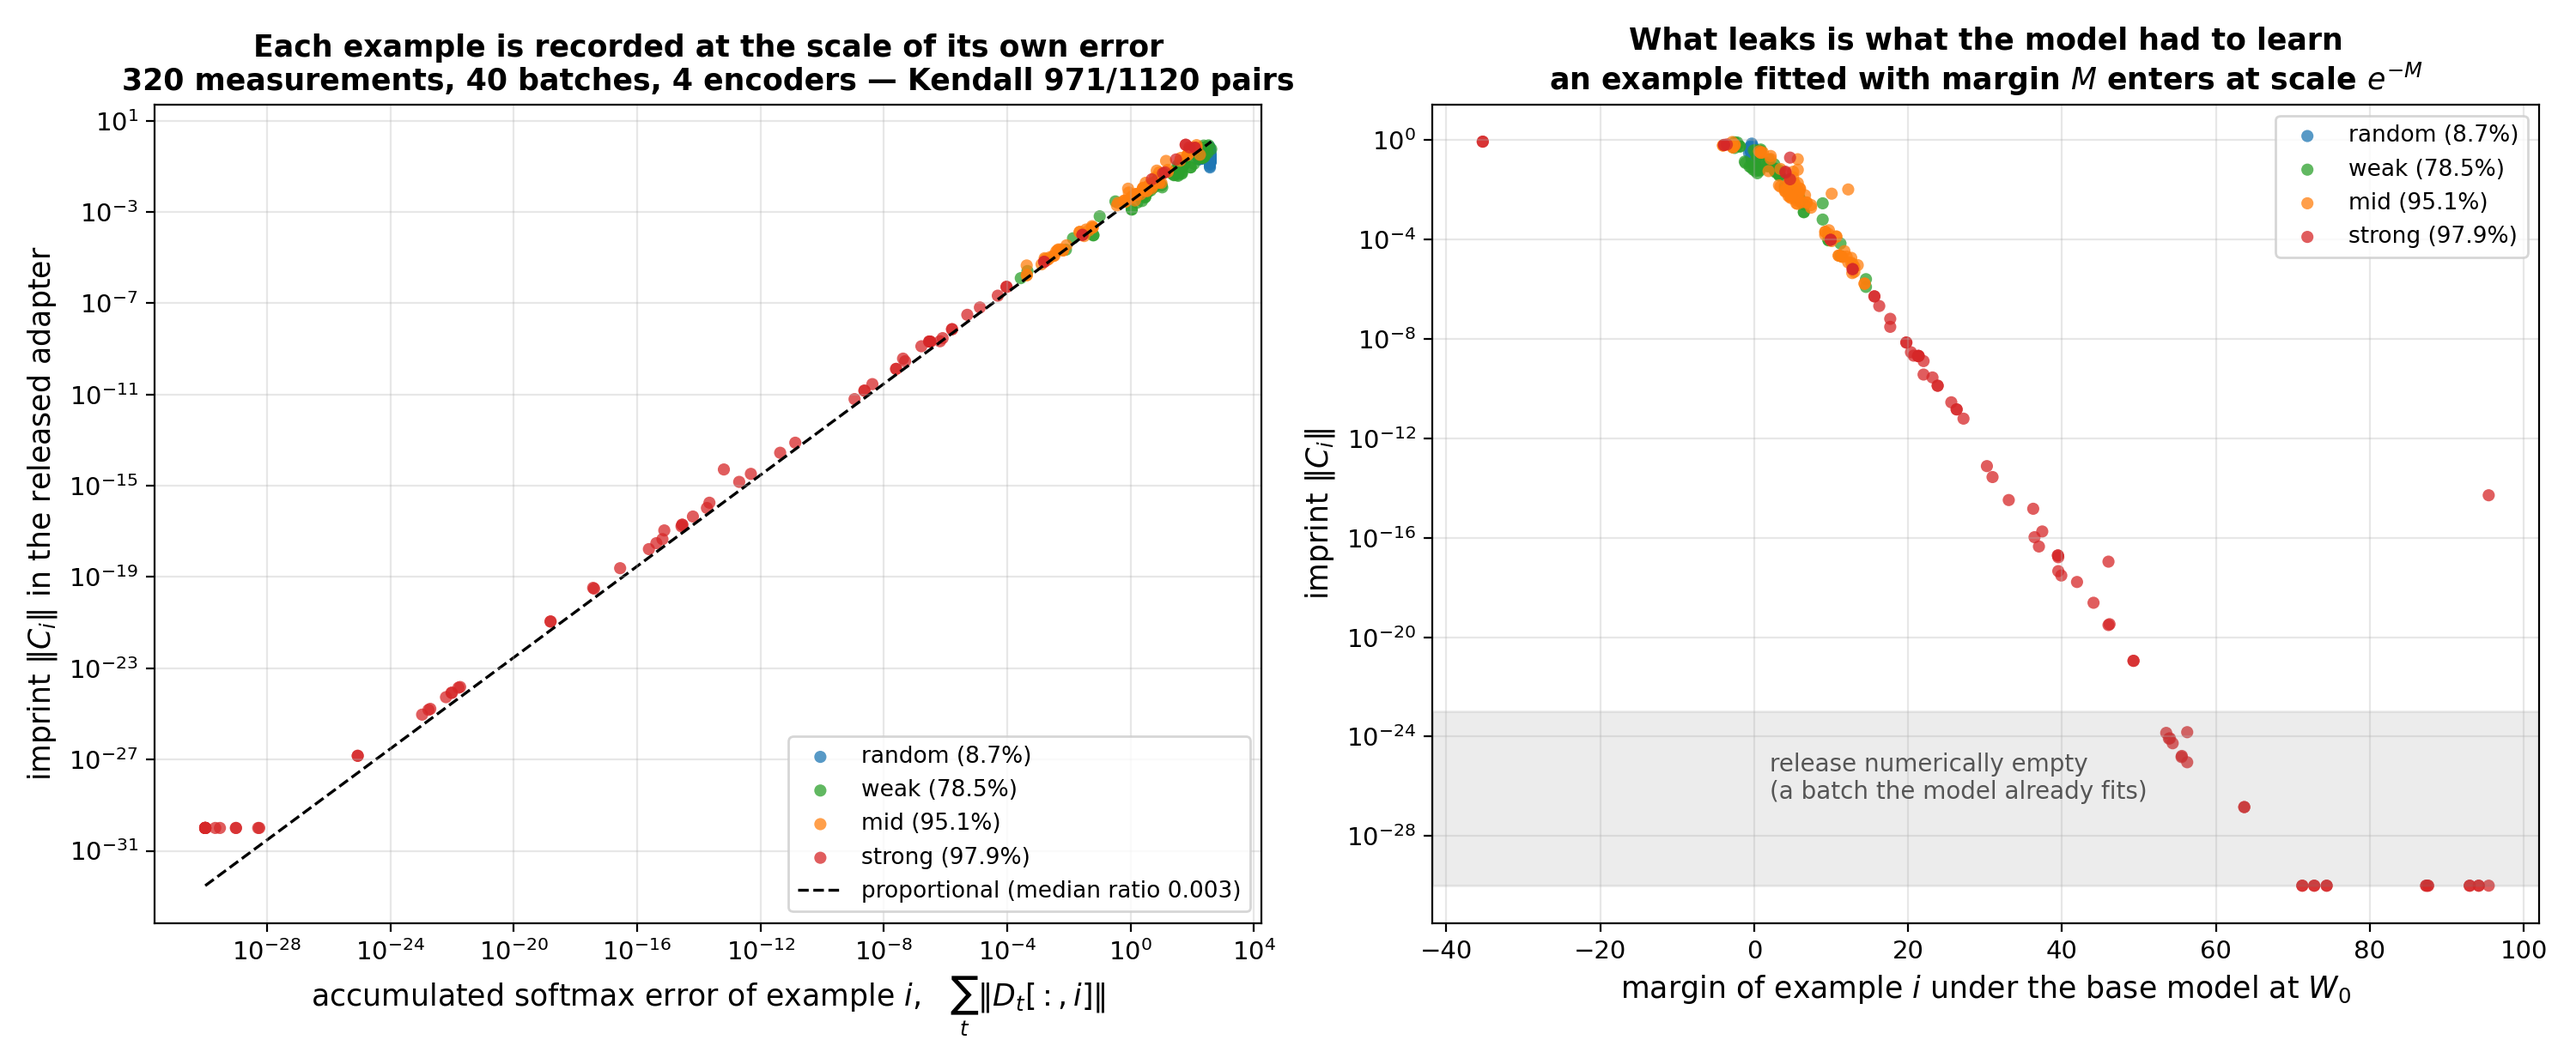
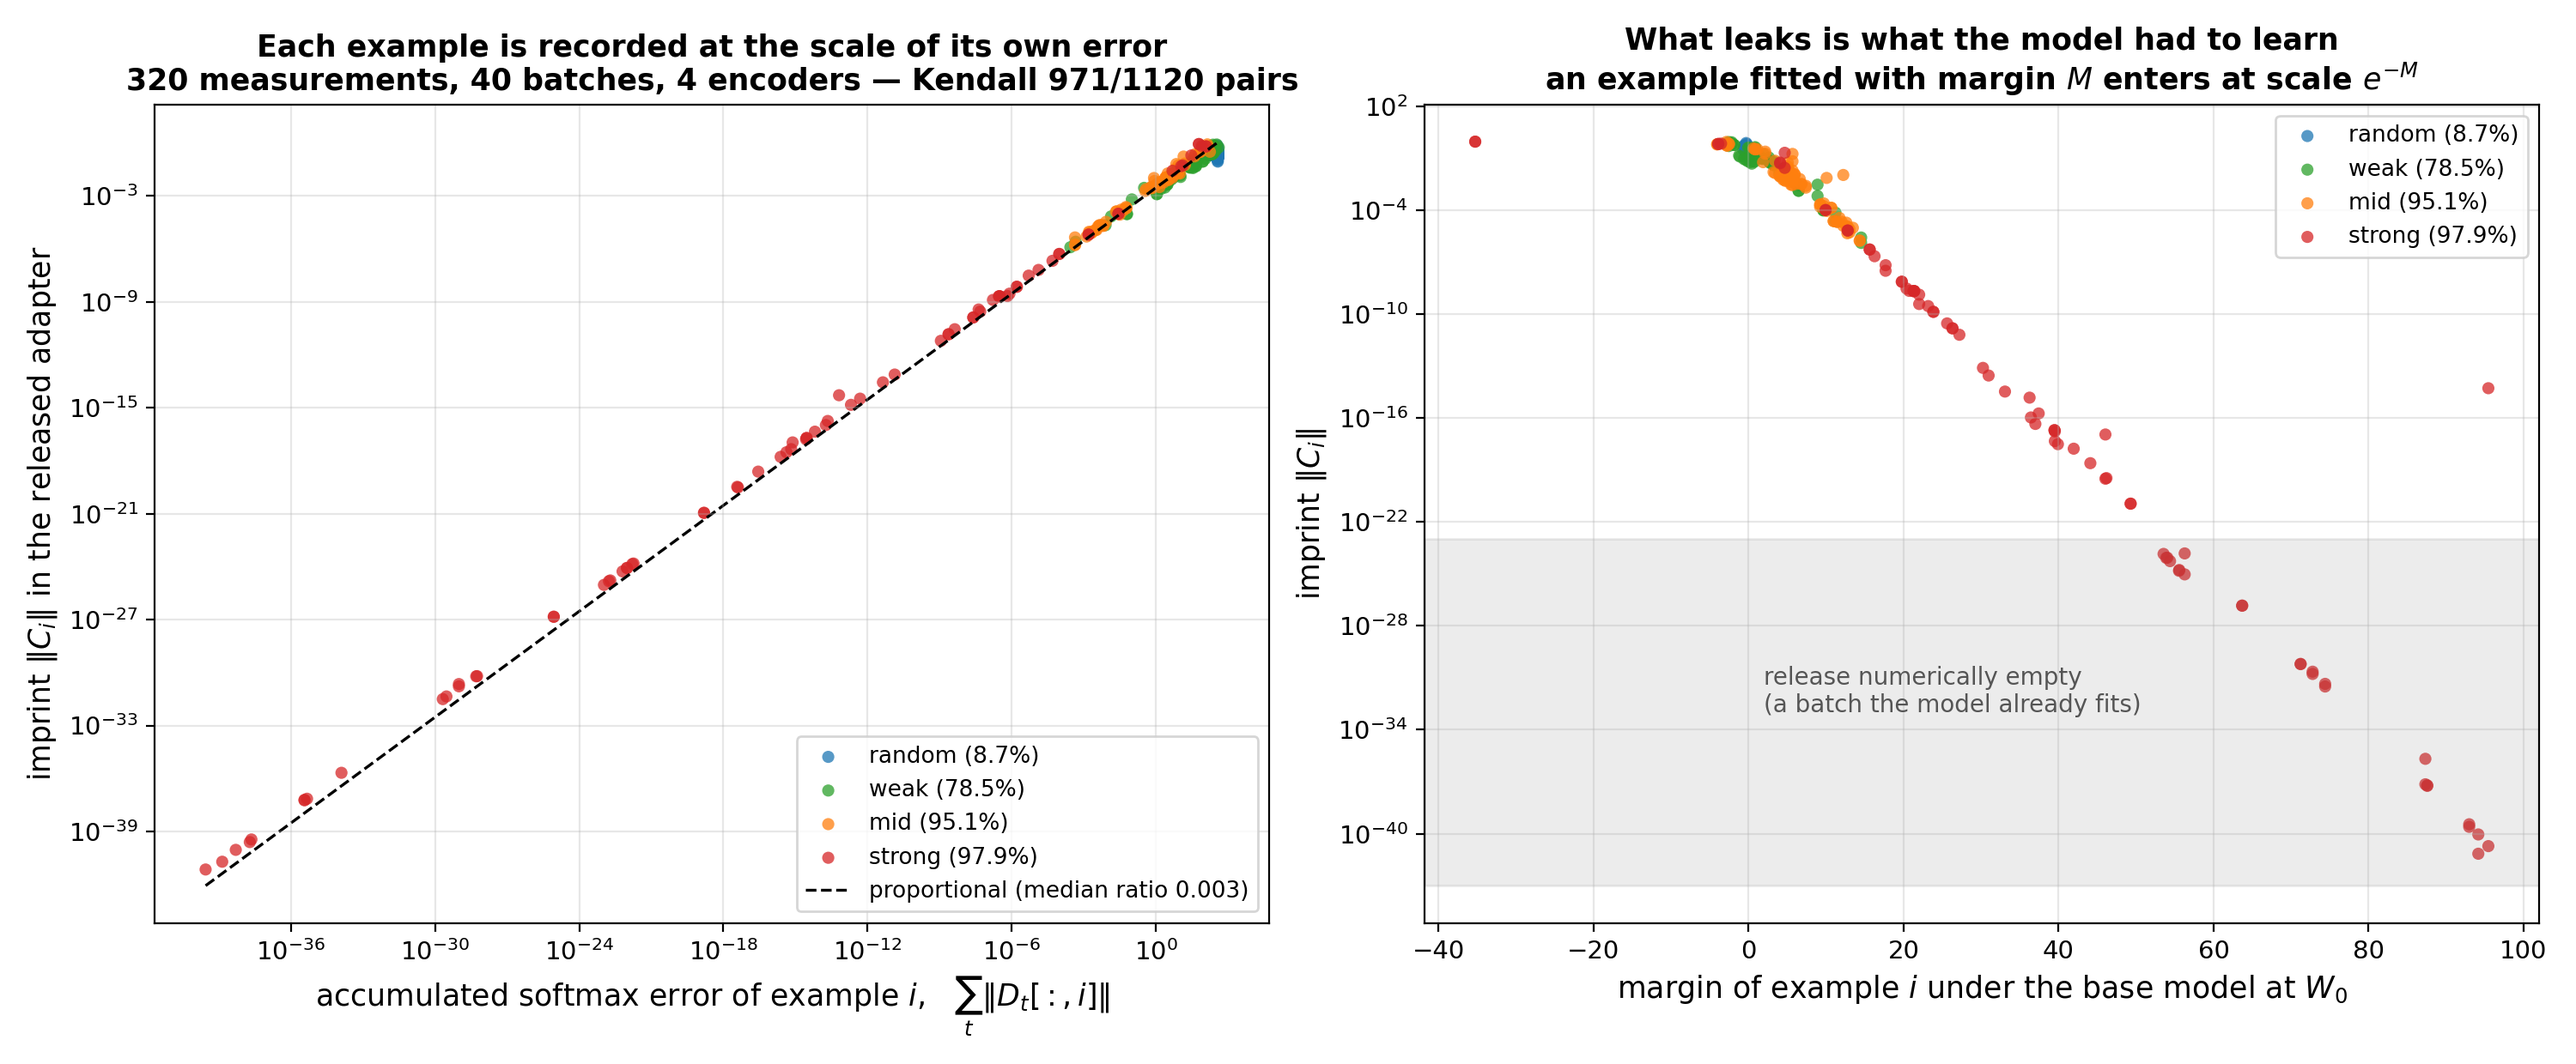
Rev 10 delta: regenerate the imprint figure without the 1e-30 clip (real data reaches 7e-42), so the axes show the full measured range and the caption no longer needs a clipping note

diff --git a/scripts/rev10_figs/fig_imprint.py b/scripts/rev10_figs/fig_imprint.py
@@ -9,7 +9,7 @@ import numpy as np
 rows = [json.loads(l) for l in open("results/exact_inversion/step58_imprint_631392.jsonl") if l.strip()]
 COL = {"random": "#1f77b4", "weak": "#2ca02c", "mid": "#ff7f0e", "strong": "#d62728"}
 ACC = {"random": "8.7%", "weak": "78.5%", "mid": "95.1%", "strong": "97.9%"}
-FLOOR = 1e-30
+FLOOR = 1e-43   # below the smallest measured value, so nothing is clipped
 fig, (ax1, ax2) = plt.subplots(1, 2, figsize=(15, 6.2), dpi=200)
 
 for e in ("random", "weak", "mid", "strong"):
@@ -34,7 +34,7 @@ ax1.grid(alpha=0.3); ax1.legend(fontsize=9.5, loc="lower right"); ax1.tick_param
 
 ax2.set_yscale("log")
 ax2.axhspan(FLOOR, 1e-23, color="gray", alpha=0.15)
-ax2.text(2, 3e-27, "release numerically empty\n(a batch the model already fits)", fontsize=10, color="#555")
+ax2.text(2, 1e-33, "release numerically empty\n(a batch the model already fits)", fontsize=10, color="#555")
 ax2.set_xlabel(r"margin of example $i$ under the base model at $W_0$", fontsize=12.5)
 ax2.set_ylabel(r"imprint $\|C_i\|$", fontsize=12.5)
 ax2.set_title("What leaks is what the model had to learn\n"

diff --git a/notes/exact_channel_rev10.tex b/notes/exact_channel_rev10.tex
@@ -771,8 +771,9 @@ $8.7\times10^{-3}$. \emph{Right:} the same imprints against the base model's
 margin on that example. The margin governs only through the error it
 implies, so this relation is a tendency and not a law — the accumulated
 error over $T$ steps is not exactly $\mathrm e^{-M}$ at $W_0$ — but it shows
-where the release goes numerically empty. Points at $10^{-30}$ are at the
-floor of the measurement.}\label{fig:imprint}
+where the release goes numerically empty. No point is clipped: the axes
+reach the smallest measured values, and the recovery of $C_i$ from the
+release is gated at $\|\sum_iC_i-B_T\|/\|B_T\|<4\times10^{-12}$.}\label{fig:imprint}
 \end{figure}
 
 Two consequences follow, and both are basis-free. \emph{A private set the
